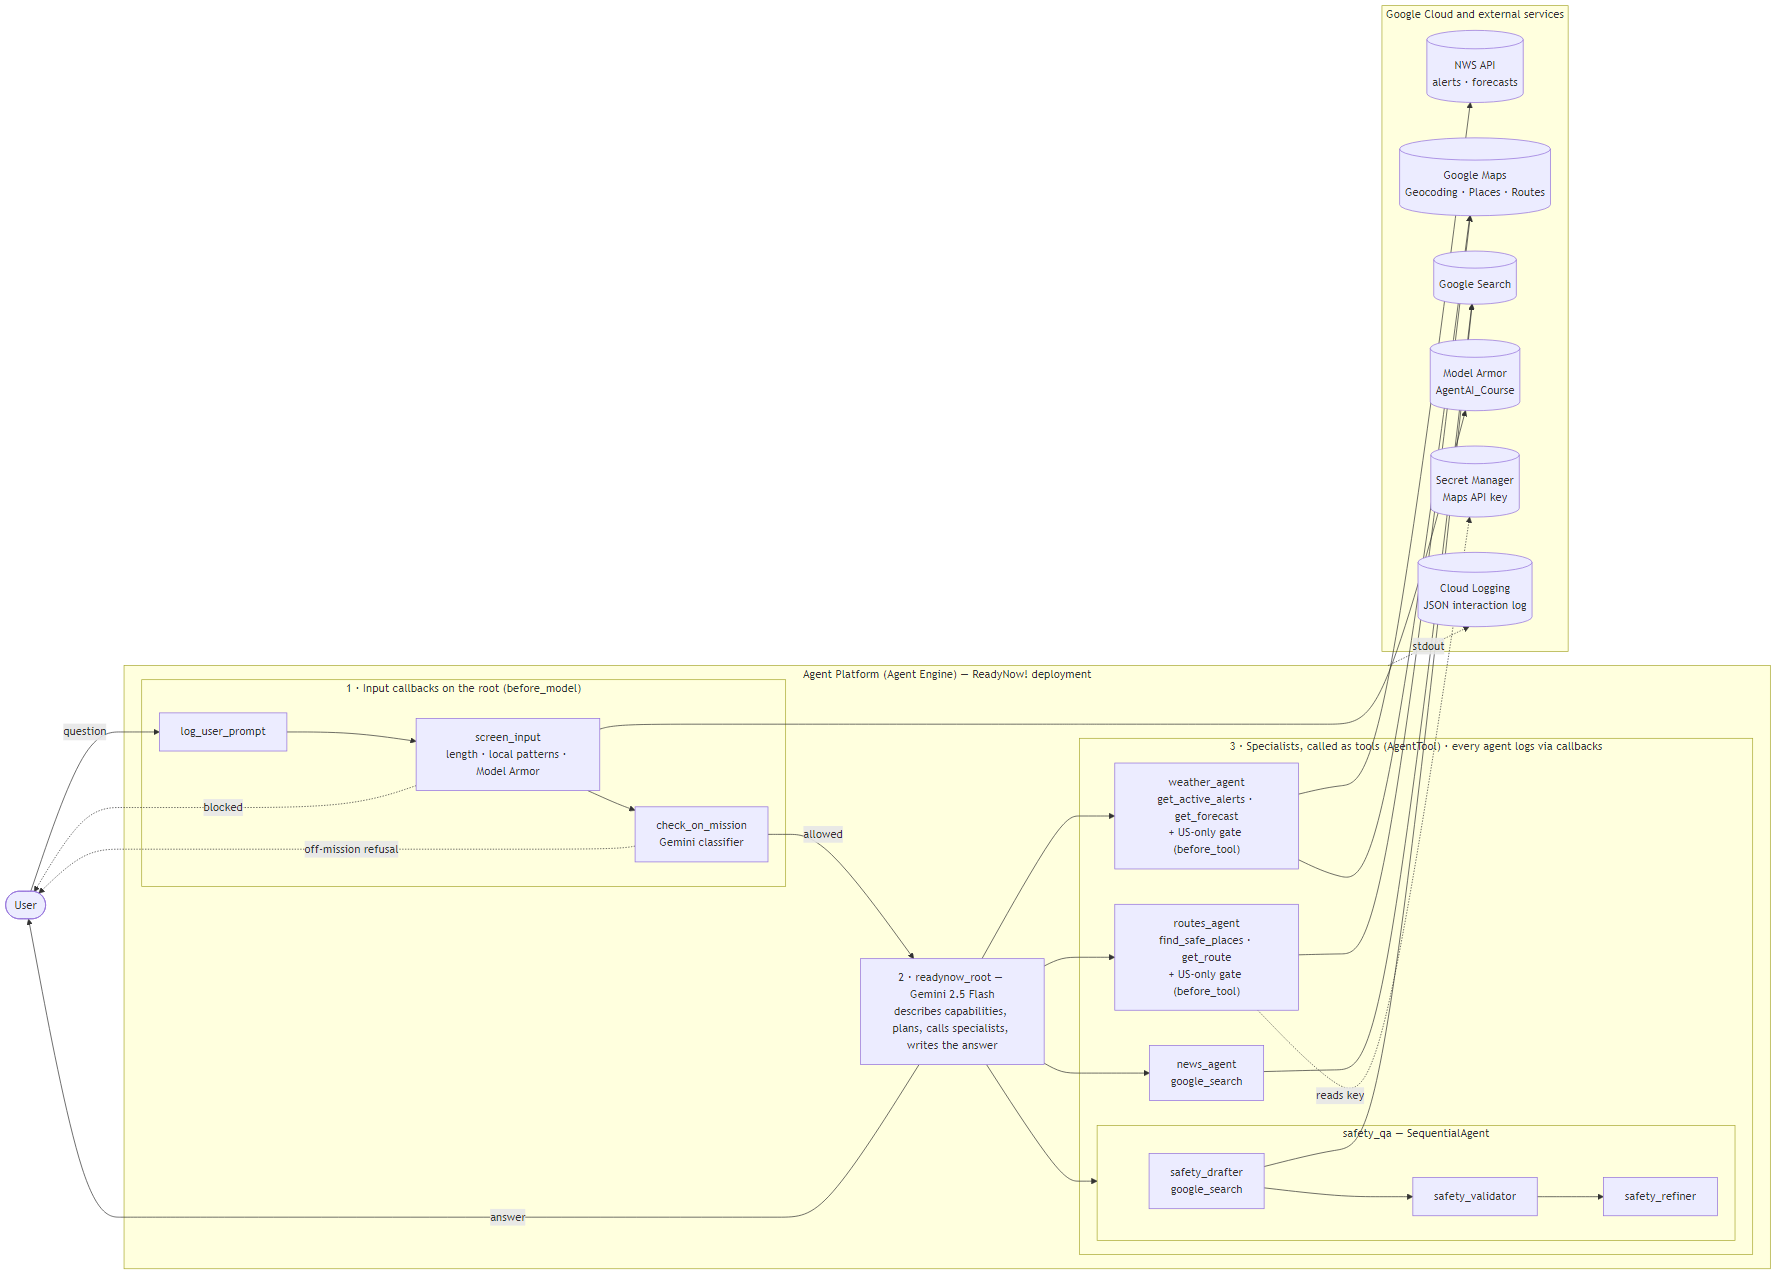
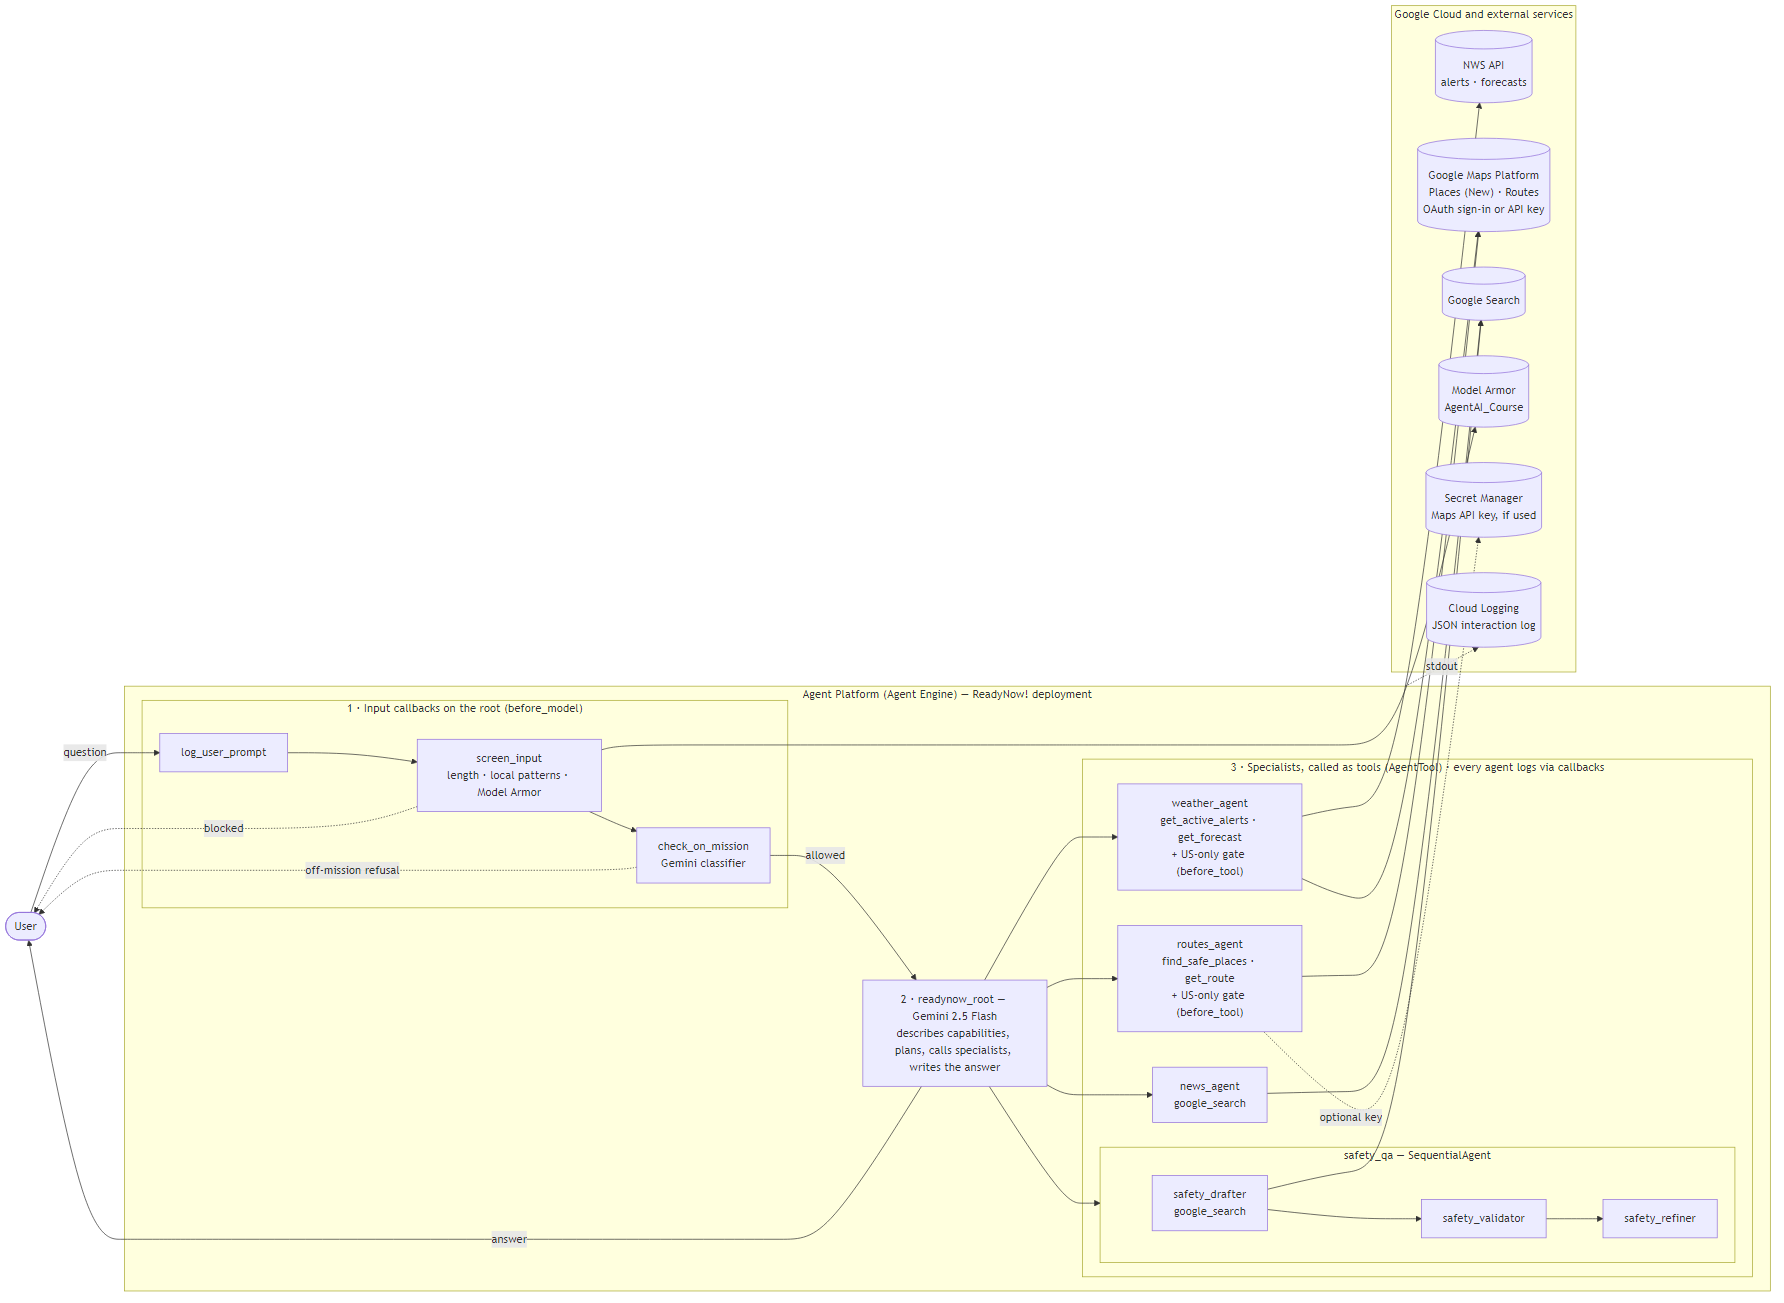
Challenge 6: call Google Maps with Google Cloud OAuth when no API key is available
Geocoding moves to Places API (New) text search; Places and Routes use OAuth
(Authorization + X-Goog-User-Project) unless GOOGLE_MAPS_API_KEY is set. Route
results include a Google Maps directions link as a no-key fallback. Notebook no
longer prompts for a key, enables the Places and Routes APIs, and grants the
deployed agent Service Usage Consumer.

diff --git a/challenge6/architecture.md b/challenge6/architecture.md
@@ -1,6 +1,6 @@
 # ReadyNow! architecture
 
-How a message flows: the root's input callbacks log it, screen it (local patterns + Model Armor) and check it is on-mission; the root agent then calls specialists as tools and writes one answer. Every agent logs each step as a JSON line, which Agent Platform sends to Cloud Logging.
+How a message flows: the root's input callbacks log it, screen it (local patterns + Model Armor) and check it is on-mission; the root agent then calls specialists as tools and writes one answer. Every agent logs each step as a JSON line, which Agent Platform sends to Cloud Logging. Google Maps (Places API (New) for geocoding and safe places, Routes API for directions) is called with Google Cloud OAuth, or with an API key when one is configured.
 
 ```mermaid
 flowchart LR
@@ -30,10 +30,10 @@ flowchart LR
     subgraph EXT["Google Cloud and external services"]
         direction TB
         NWS[("NWS API<br/>alerts · forecasts")]
-        MAPS[("Google Maps<br/>Geocoding · Places · Routes")]
+        MAPS[("Google Maps Platform<br/>Places (New) · Routes<br/>OAuth sign-in or API key")]
         GS[("Google Search")]
         MA[("Model Armor<br/>AgentAI_Course")]
-        SM[("Secret Manager<br/>Maps API key")]
+        SM[("Secret Manager<br/>Maps API key, if used")]
         CL[("Cloud Logging<br/>JSON interaction log")]
     end
 
@@ -43,7 +43,7 @@ flowchart LR
     R -->|answer| U
     W --> NWS
     W & RT --> MAPS
-    RT -.->|reads key| SM
+    RT -.->|optional key| SM
     N & D --> GS
     S --> MA
     AP -.->|stdout| CL
